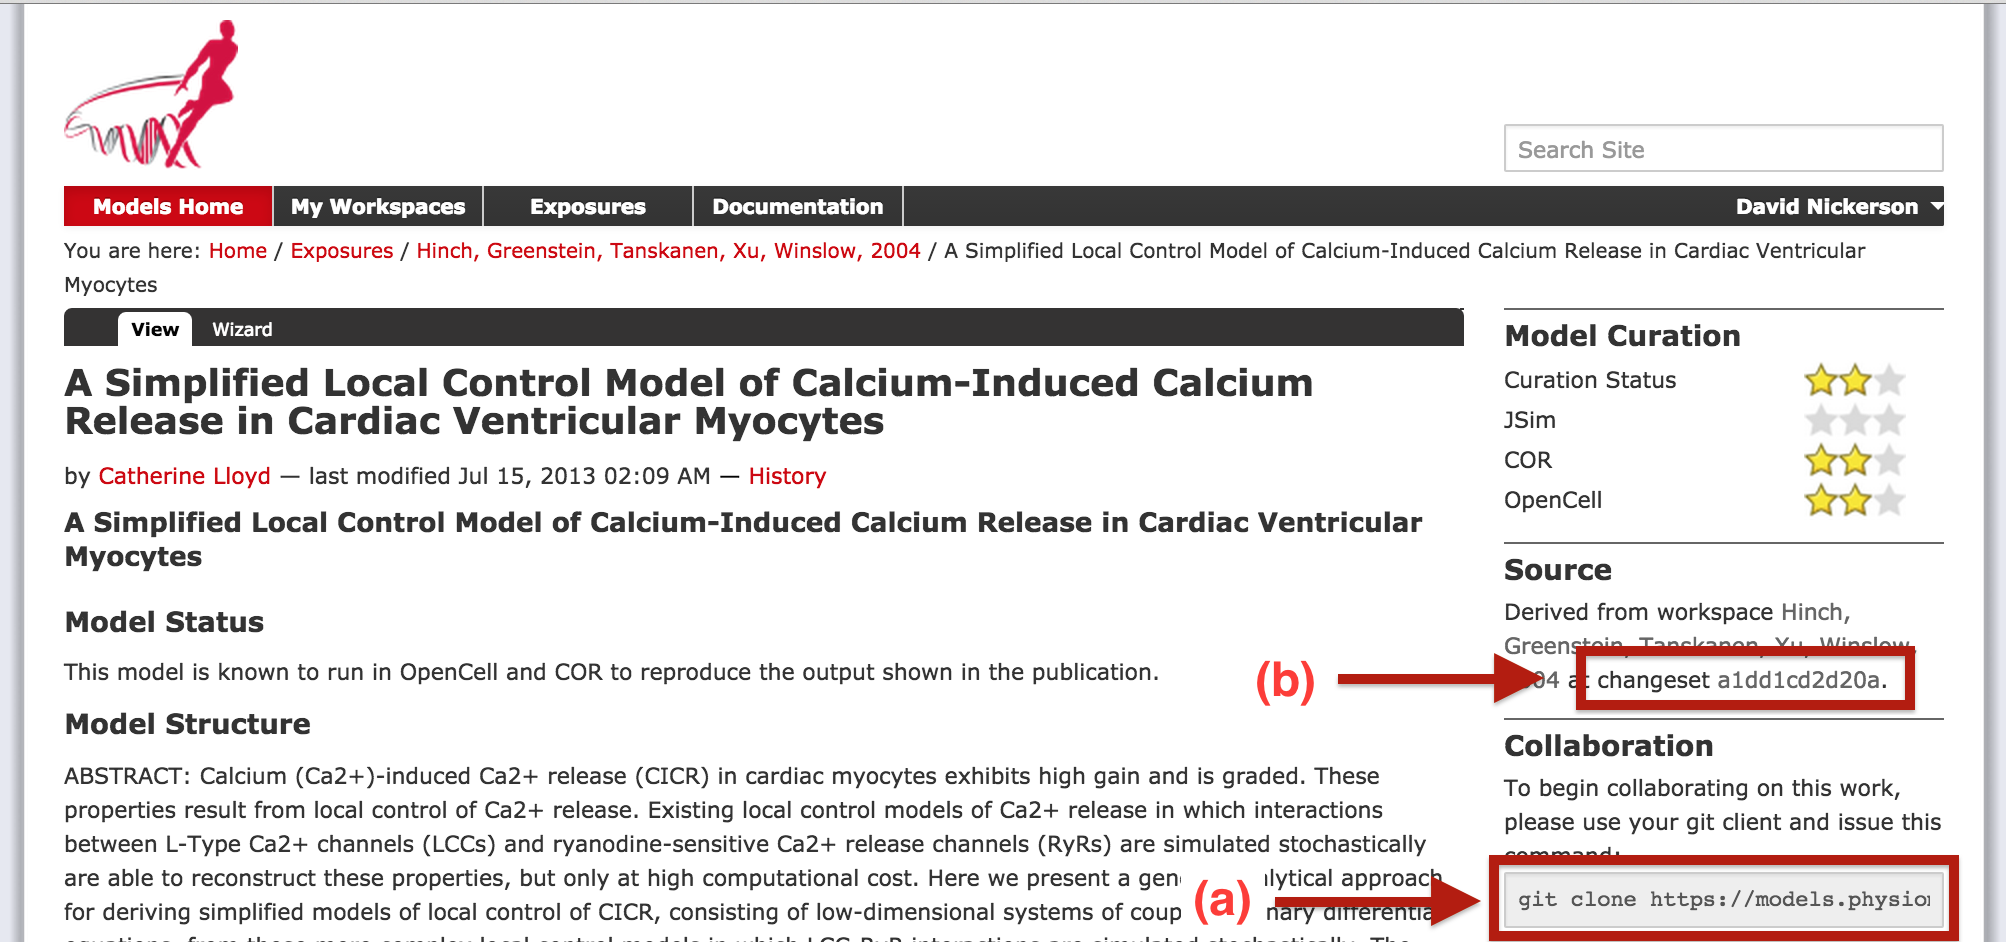
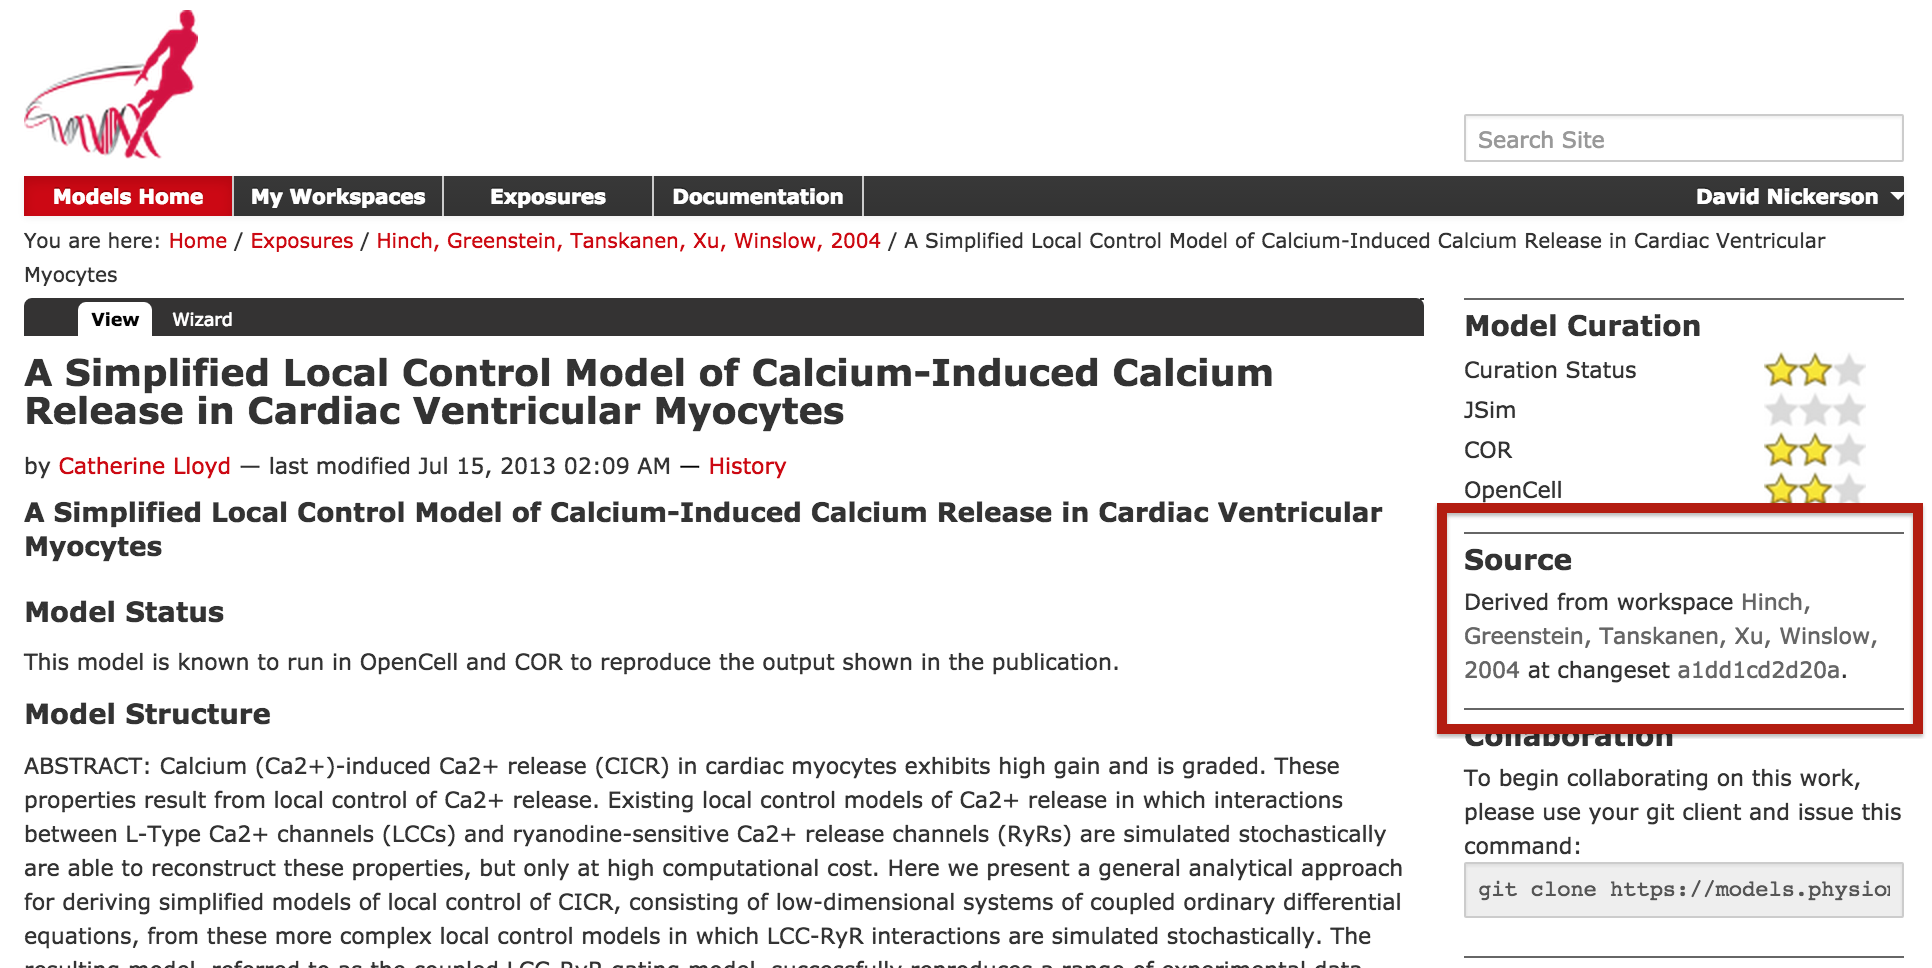
finishing off example of embedding an exposed CellML model

Changed region(s): [[0.0, 0.0, 1.0, 1.0]]

diff --git a/embeddedworkspaces.rst b/embeddedworkspaces.rst
@@ -54,10 +54,82 @@ A popular cardiac calcium dynamics model is that of `Hinch et al (2004) <http://
    :align: center
    :width: 80%
 
-   The Hinch *et al* (2004) exposure page in PMR, highlighting (a) the source workspace; and (b) the changeset identifier.
+   The Hinch *et al* (2004) exposure page in PMR, highlighting the **Source** section of the CellML exposure page. 
    
+From the **Source** section highlighted above, right-clicking on the workspace link should allow you to easily copy the source workspace URL. You can then navigate to your local :term:`clone` of your workspace you can embed the Hinch *et al* workspace as follows.
 
+::
 
+   $ git submodule add https://models.physiomeproject.org/workspace/hinch_greenstein_tanskanen_xu_winslow_2004
+   Cloning into 'hinch_greenstein_tanskanen_xu_winslow_2004'...
+   remote: dul-daemon says what
+   remote: counting objects: 29, done.
+   remote: how was that, then?
+   Unpacking objects: 100% (29/29), done.
+   Checking connectivity... done.
+
+By default the embedded workspace (Git submodule) will have the same name as the source workspace and be placed in the root of your workspace, but you can provide a different path to the above command if desired.
+
+When the embedded workspace is first created, it will be initialised to the latest version of the workspace, so we now need to :term:`checkout` the specific version of the embedded workspace that we are after (shown in the figure above). We can do this as shown below.
+
+::
+
+   $ cd hinch_greenstein_tanskanen_xu_winslow_2004
+   $ git checkout a1dd1cd2d20a
+   Note: checking out 'a1dd1cd2d20a'.
+   
+   You are in 'detached HEAD' state. You can look around, make experimental
+   changes and commit them, and you can discard any commits you make in this
+   state without impacting any branches by performing another checkout.
+   
+   If you want to create a new branch to retain commits you create, you may
+   do so (now or later) by using -b with the checkout command again. Example:
+   
+     git checkout -b new_branch_name
+   
+   HEAD is now at a1dd1cd... Tidied session file
+
+We now have the Hinch *et al* workspace embedded and set the desired version. If we traverse back to our workspace root and check the status of the workspace::
+
+   $ cd ..
+   $ git status
+   On branch master
+   
+   Initial commit
+   
+   Changes to be committed:
+     (use "git rm --cached <file>..." to unstage)
+   
+      new file:   .gitmodules
+      new file:   hinch_greenstein_tanskanen_xu_winslow_2004
+   
+   Changes not staged for commit:
+     (use "git add <file>..." to update what will be committed)
+     (use "git checkout -- <file>..." to discard changes in working directory)
+   
+      modified:   hinch_greenstein_tanskanen_xu_winslow_2004 (new commits)
+   
+we can see that the submodule has been added but that is has also been modified (due to changing from the latest revision to that specified in the exposure page). So as per standard Git usage, we add the change and then can commit the newly embedded workspace and push the changes in our workspace back to the repository.
+
+::
+
+   $ git commit -m "Embedding Hinch et al (2004) model from exposure https://models.physiomeproject.org/exposure/8e1a590fb82a2cab5284502b430c4a4f."
+   [master (root-commit) 563de87] Embedding Hinch et al (2004) model from exposure https://models.physiomeproject.org/exposure/8e1a590fb82a2cab5284502b430c4a4f.
+    2 files changed, 4 insertions(+)
+    create mode 100644 .gitmodules
+    create mode 160000 hinch_greenstein_tanskanen_xu_winslow_2004
+   $ git push
+   Counting objects: 3, done.
+   Delta compression using up to 4 threads.
+   Compressing objects: 100% (3/3), done.
+   Writing objects: 100% (3/3), 489 bytes | 0 bytes/s, done.
+   Total 3 (delta 0), reused 0 (delta 0)
+   To http://teaching.physiomeproject.org/workspace/273
+
+We can now confirm that we have the correct version of the Hinch *et al* model embedded by using our browser to navigate to our workspace in the repository (here we use the :term:`teaching instance`). You should now see the embedded workspace listed in the view of your workspace, and clicking on the embedded workspace should take you directly to the source workspace at the correct revision, namely: https://models.physiomeproject.org/workspace/hinch_greenstein_tanskanen_xu_winslow_2004/file/a1dd1cd2d20a4f1d00c69ce6cd1b968ea0836659/.
+
+.. note::
+   :term:`PMR2` does some clever redirects to resolve the embedded workspaces, so the acutal link displayed for the Hinch *et al* workspace in your workspace will not directly point to the source workspace and revision.
 
 Best practice
 =============
